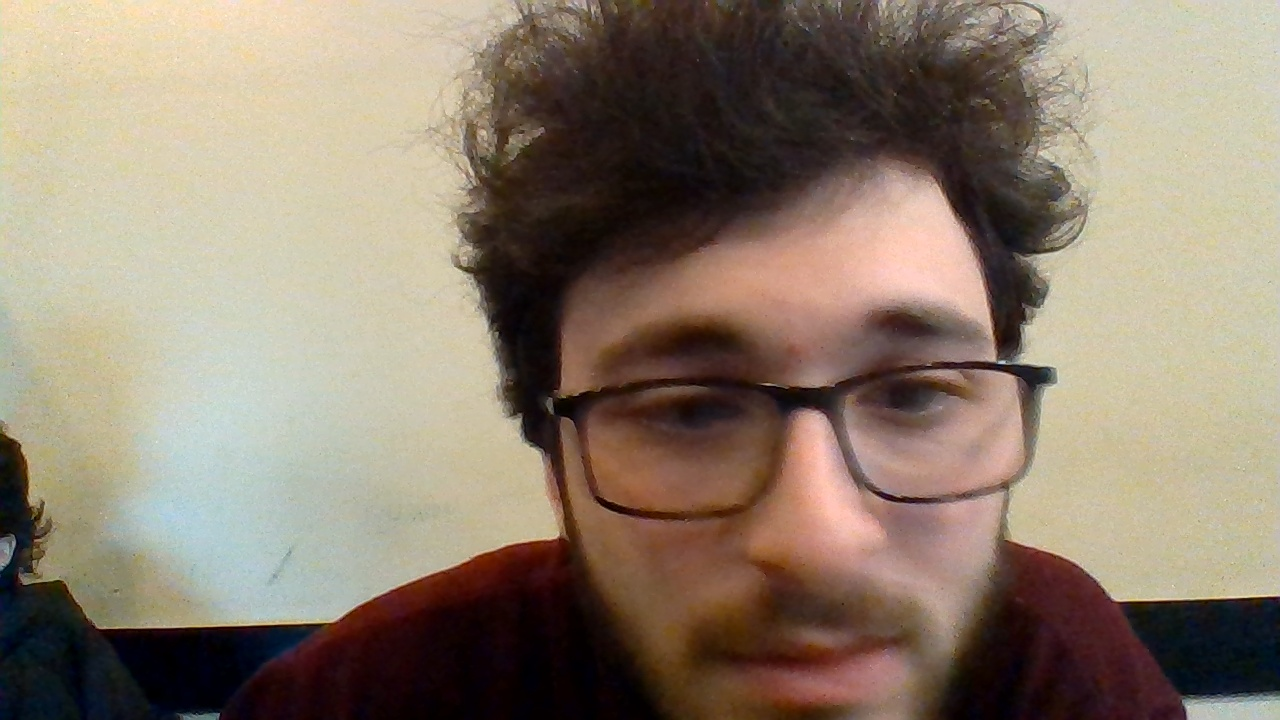
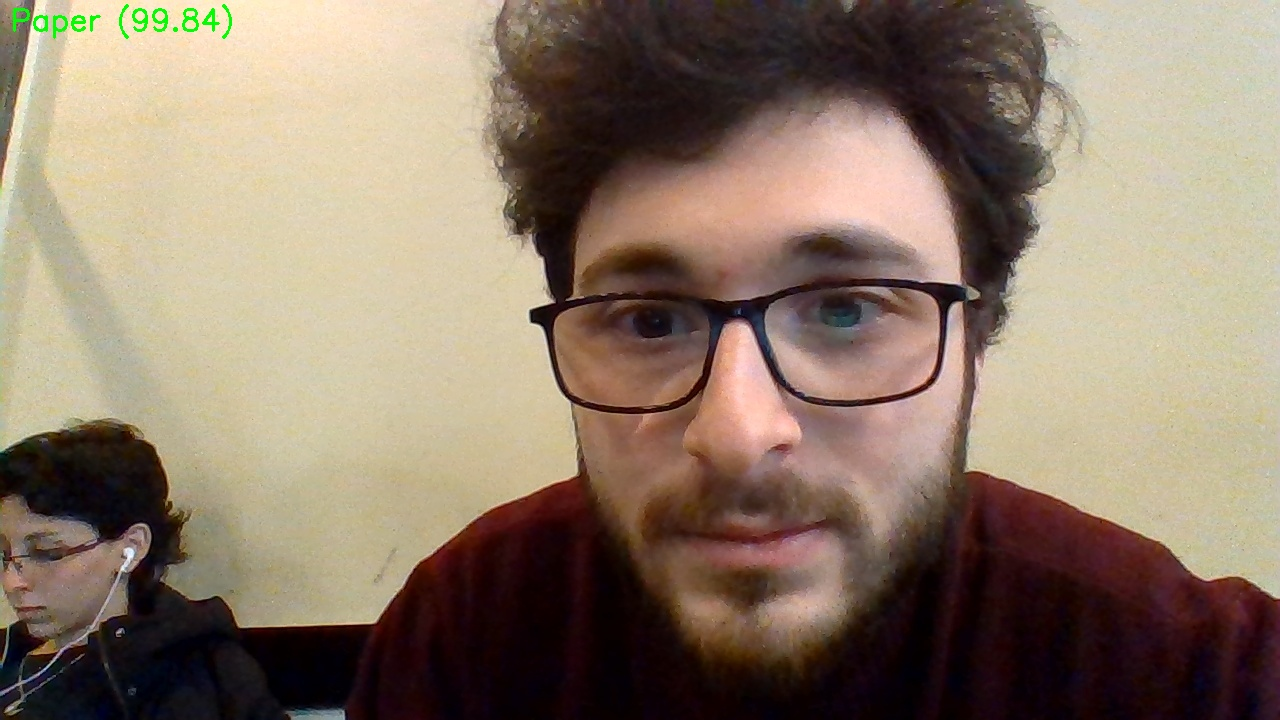
- "Unable to label the image" issue is solved. - Removed the function for printing the results to the terminal.

diff --git a/img_classification.py b/img_classification.py
@@ -47,10 +47,10 @@ while True:
     label_idx = np.argmax(output)
     text = LABELS[label_idx] + f" ({output[0][label_idx] * 100:.2f})"
     
+    # Putting the label on the saved image (labeling the image)
     img = cv2.putText(cv2.imread('frame.jpg'), text, (10, 30), cv2.FONT_HERSHEY_SIMPLEX, 1, (0, 255, 0), 2)
+    cv2.imwrite('frame.jpg', img)
     
-    # Showing the result on the terminal
-    print(f"{text}\n")
     if cv2.waitKey(1) == ord('q'):
         break
     
